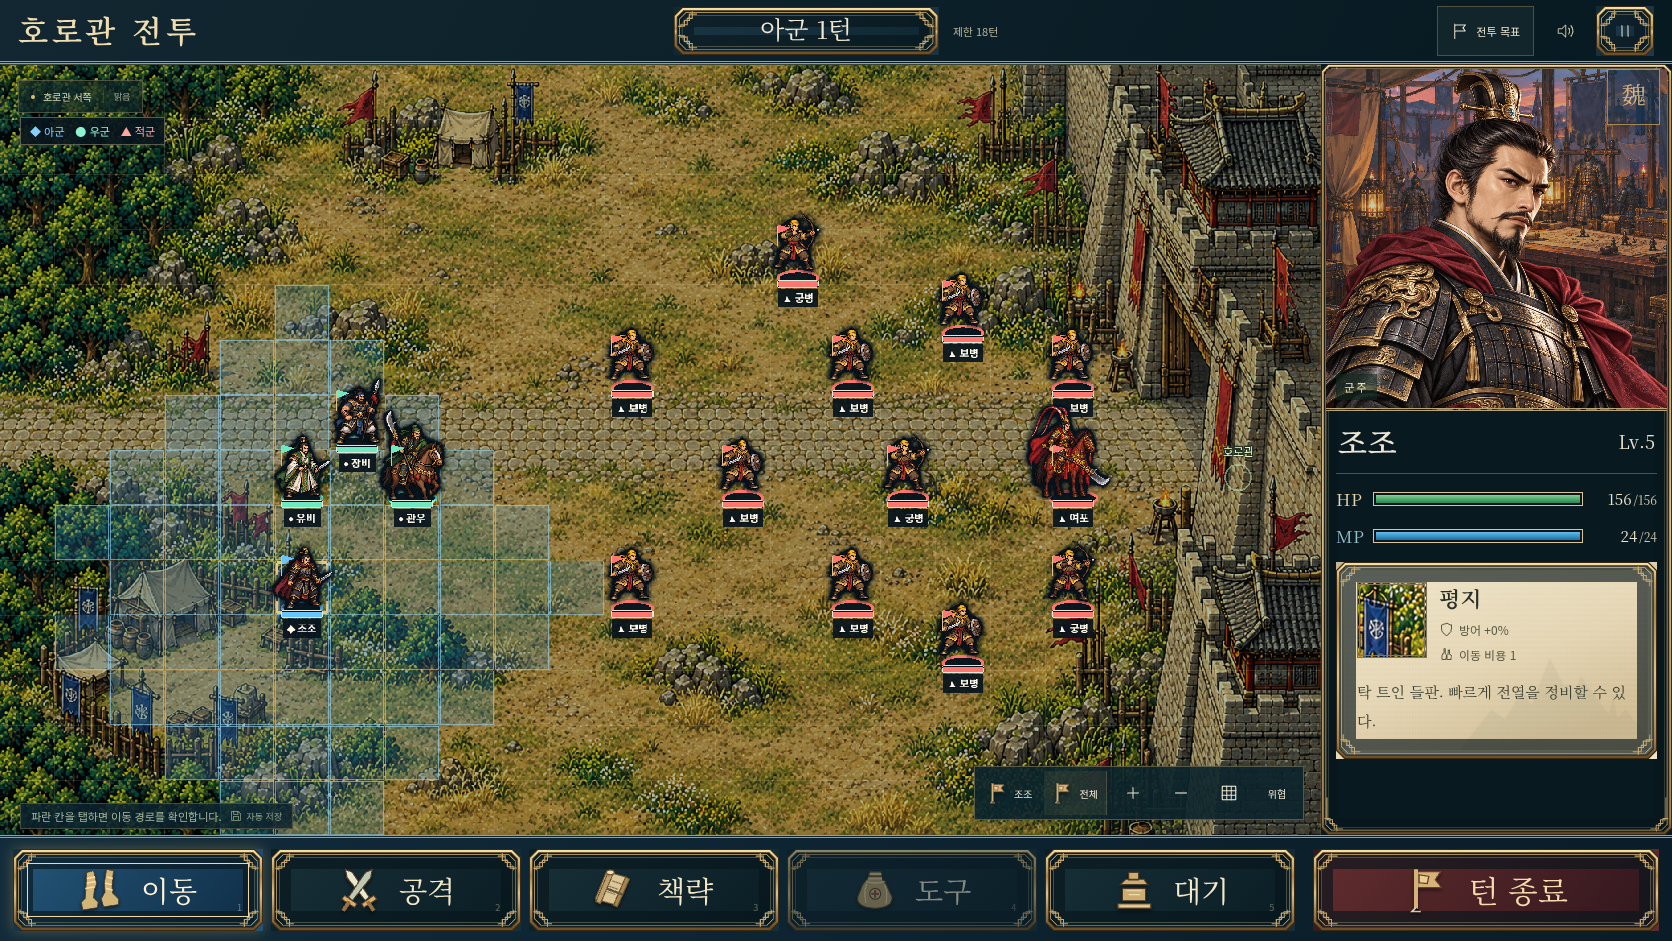
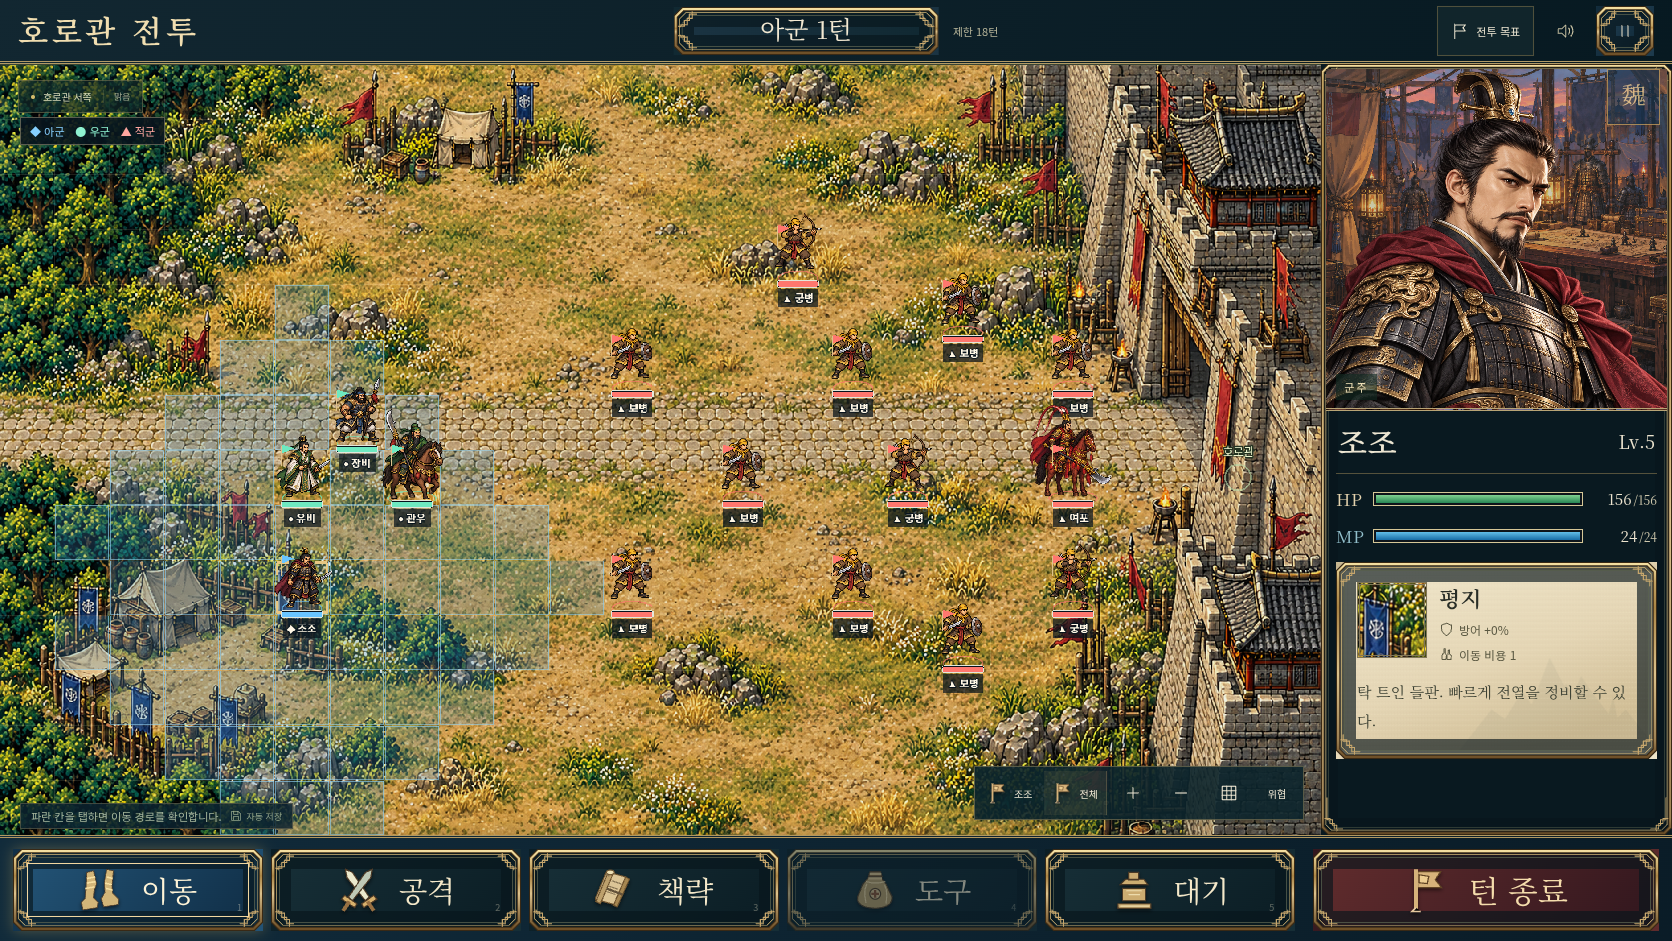
Remove heavy sprite shadows and soften battlefield contrast

diff --git a/src/battle-scene.ts b/src/battle-scene.ts
@@ -55,7 +55,7 @@ export class BattleScene extends Phaser.Scene {
         this.anims.create({key:`${kind}-${index}`,frames:unit.frames.map((_f,pose)=>({key:textureKey,frame:frameName(pose)})),frameRate:kind==='walk'?12:10,repeat:kind==='walk'?-1:0,skipMissedFrames:false});
       });
     }
-    this.add.image(0, 0, 'ground').setOrigin(0).setDisplaySize(this.scenario.cols * TILE, this.scenario.rows * TILE).setTint(0xaebaaa);
+    this.add.image(0, 0, 'ground').setOrigin(0).setDisplaySize(this.scenario.cols * TILE, this.scenario.rows * TILE).setTint(0xf0f2ed);
     const marker = this.add.graphics();
     const landmark=this.scenario.landmark;
     marker.lineStyle(2, 0xb9dcaa, .55).strokeCircle((landmark.x+.5)*TILE,(landmark.y+.5)*TILE,15);
@@ -168,10 +168,9 @@ export class BattleScene extends Phaser.Scene {
       if (!node) {
         node = this.add.container((u.x + .5) * TILE, (u.y + 1) * TILE - 7).setDepth(10 + u.y);
         const teamColor=u.team==='player'?0x69c5ff:u.team==='ally'?0x6ee9c0:0xff776e;
-        node.add(this.add.ellipse(0,-1,u.role==='기병'?56:46,16,0x06131d,.95).setStrokeStyle(3,teamColor,1));
+        node.add(this.add.ellipse(0,-1,u.role==='기병'?56:46,16).setStrokeStyle(1.5,teamColor,.6));
         const sprite=this.add.sprite(0,0,u.sprite>=8?'boss-motion':'troops',u.sprite>=8?`walk-${u.sprite}-0`:`unit-${u.sprite}`);this.idle(u,sprite);
         sprite.name = 'sprite'; node.add(sprite);
-        if(this.game.renderer.type===Phaser.WEBGL)sprite.preFX?.addGlow(0x06121b,4,0,false,.1,4);
         sprite.on(Phaser.Animations.Events.ANIMATION_UPDATE,(_animation:Phaser.Animations.Animation,frame:Phaser.Animations.AnimationFrame)=>{
           this.motionFrames.push({id:u.id,kind:_animation.key.startsWith('attack-')?'attack':'walk',frame:frame.textureFrame});
           if(this.motionFrames.length>160)this.motionFrames.shift();
@@ -180,7 +179,7 @@ export class BattleScene extends Phaser.Scene {
         const flag = this.add.graphics(); flag.name = 'flag'; node.add(flag);
         const health = this.add.graphics(); health.name = 'health'; node.add(health);
         const labelName=u.name.replace('동탁군 ','');
-        const label = this.add.text(0,12,`${u.team==='player'?'◆':u.team==='ally'?'●':'▲'} ${labelName}`,{fontFamily:'"Noto Sans KR",sans-serif',fontSize:'12px',fontStyle:'bold',color:'#fff7e5',stroke:'#08131c',strokeThickness:2,backgroundColor:'#08131ceb',padding:{left:4,right:4,top:2,bottom:2}}).setOrigin(.5,0);
+        const label = this.add.text(0,12,`${u.team==='player'?'◆':u.team==='ally'?'●':'▲'} ${labelName}`,{fontFamily:'"Noto Sans KR",sans-serif',fontSize:'12px',fontStyle:'bold',color:'#fff7e5',stroke:'#08131c',strokeThickness:2,backgroundColor:'#08131cb8',padding:{left:4,right:4,top:2,bottom:2}}).setOrigin(.5,0);
         label.name = 'label'; node.add(label); this.nodes.set(u.id, node);
       }
       const x = (u.x + .5) * TILE, y = (u.y + 1) * TILE - 7;

diff --git a/README.md b/README.md
@@ -63,7 +63,7 @@ npm run test:e2e
 - 영천의 2라운드 화공·일반병 혼란. 전투별 지휘관 퇴각 승리, 조조 퇴각·턴 제한 초과 패배.
 - 전투별 보조 목표, 전장 기록, 승패 결과와 다음 전투. 제목의 전투 선택에서 재도전과 승리 기록 확인.
 - 호로관의 지휘관 위협 범위 표시, 지도 드래그·확대·전체 보기, 모바일 세로 중심 배치와 가로 대응, 터치·키보드 명령, 효과음과 속도 설정.
-- 배경 명도를 낮춘 전장, 장수 윤곽과 진영별 바닥·깃발·이름표, 색상과 모양을 함께 쓰는 진영 표시.
+- 배경 밝기를 소폭 조정한 전장, 그림자 없이 얇은 진영 표시·깃발·이름표로 부대 구분. 색상과 모양을 함께 쓰는 진영 표시.
 - 경로를 따라 걷기, 공격 자세, 궁병의 화살, 피격·회피·반격·퇴각 연출. 다음 AI 행동과 결과 화면은 동작 재생을 기다린다.
 - 자동 저장, AI 차례 중 복귀, 이전 정상 백업 복구, 파일 내보내기·가져오기.
 

diff --git a/docs/prototype/PORTRAIT.md b/docs/prototype/PORTRAIT.md
@@ -34,7 +34,7 @@
 
 ![세로 호로관 전투](images/portrait-hulao.png)
 
-전장 배경의 밝기를 낮추고 장수에 어두운 윤곽을 더했다. 부대 발밑과 깃발은 아군 파랑·우군 민트·적군 붉은색으로 표시한다. ◆·●·▲ 모양과 어두운 이름표를 함께 사용해 색상 외에도 진영을 구별한다. 행동한 장수를 지나치게 흐리게 표시하지 않는다. 지도 이동·확대·전체 보기와 기존 걷기·공격 동작은 유지한다.
+장수 주변의 검은 효과와 발밑의 불투명한 그림자는 제거했다. 전장 배경의 밝기는 원본에 가깝게 두고 소폭만 낮춘다. 채우지 않은 얇은 발밑 표시와 깃발은 아군 파랑·우군 민트·적군 붉은색으로 표시한다. ◆·●·▲ 모양과 반투명 이름표를 함께 사용해 색상 외에도 진영을 구별한다. 행동한 장수를 지나치게 흐리게 표시하지 않는다. 지도 이동·확대·전체 보기와 기존 걷기·공격 동작은 유지한다.
 
 ## 검증
 

diff --git a/docs/prototype/README.md b/docs/prototype/README.md
@@ -30,7 +30,7 @@
 
 ![실제 모바일 전투 화면](images/mobile-battle.png)
 
-세로에서 장수 정보는 지도 아래에, 명령은 두 줄로 표시한다. 진영별 바닥·깃발·이름표와 장수 윤곽으로 전장의 가독성을 높였다. 지도는 드래그·휠·두 손가락으로 이동·확대할 수 있다. 전체 보기로 모든 부대를 확인할 수 있다.
+세로에서 장수 정보는 지도 아래에, 명령은 두 줄로 표시한다. 장수의 검은 그림자를 제거하고 얇은 진영 표시·깃발·이름표로 부대를 구별한다. 배경 밝기는 소폭만 조정한다. 지도는 드래그·휠·두 손가락으로 이동·확대할 수 있다. 전체 보기로 모든 부대를 확인할 수 있다.
 
 ## 부대 동작
 
